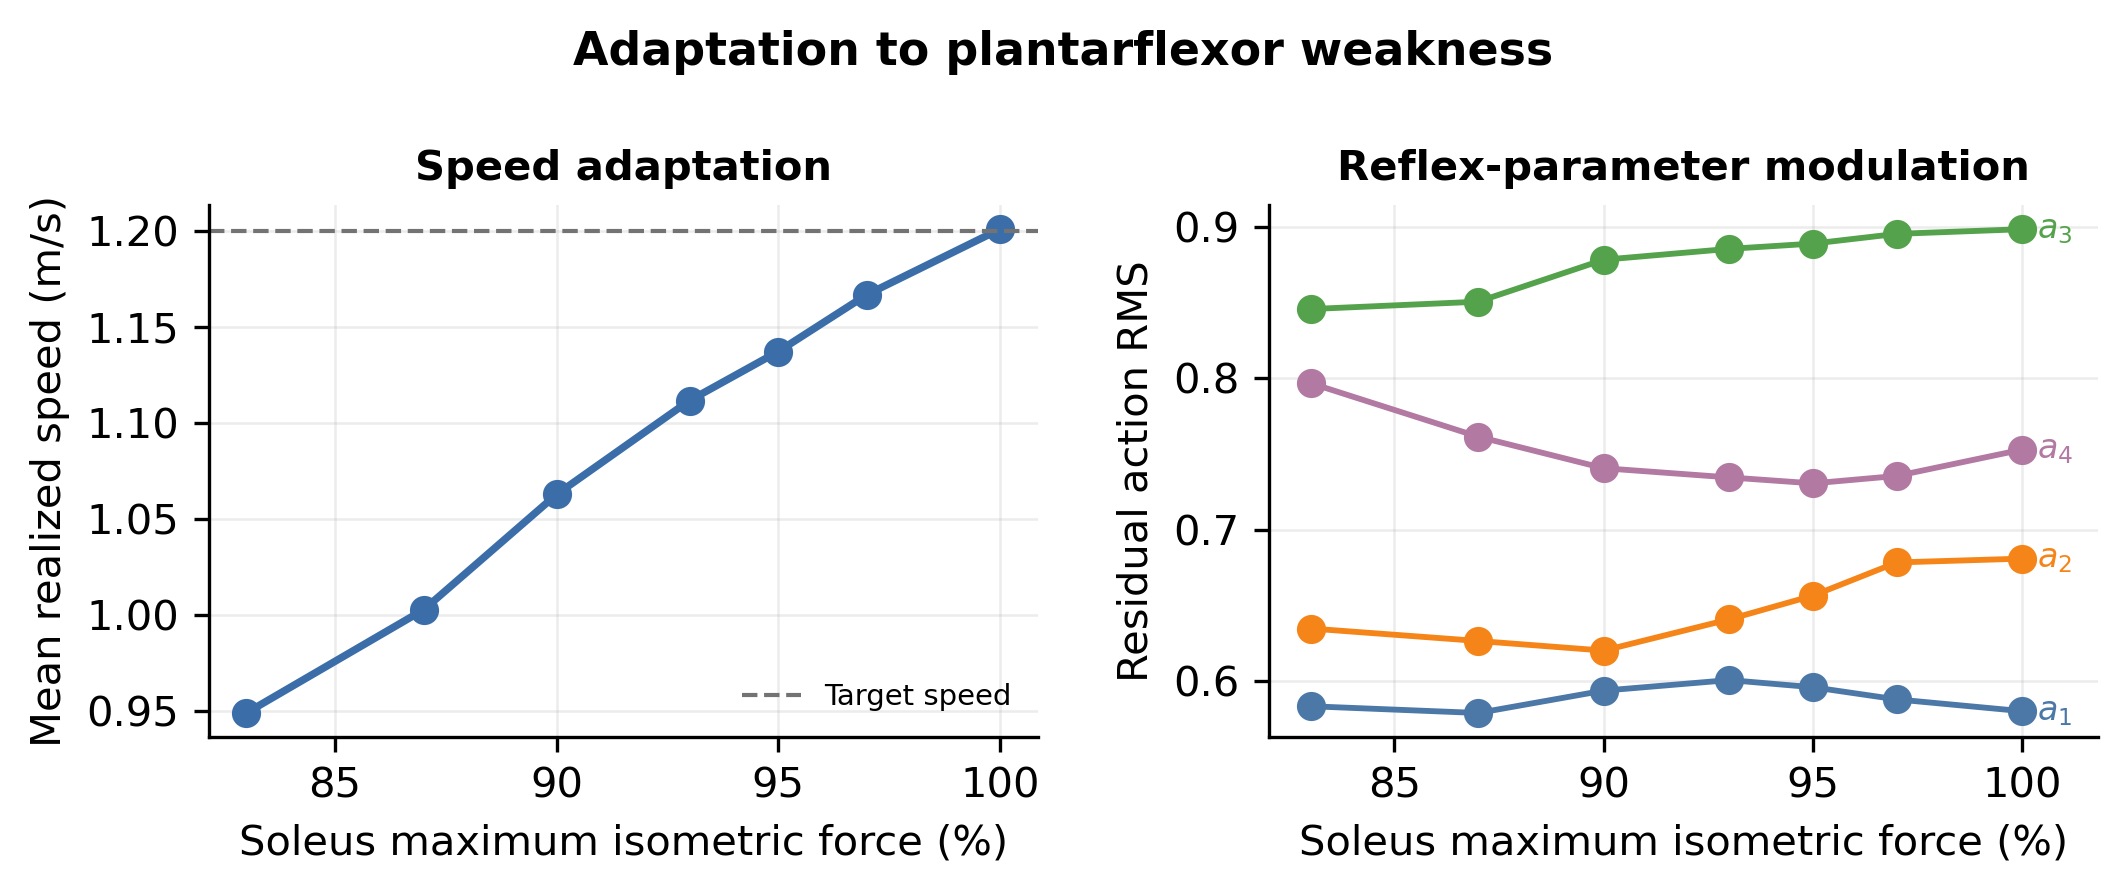
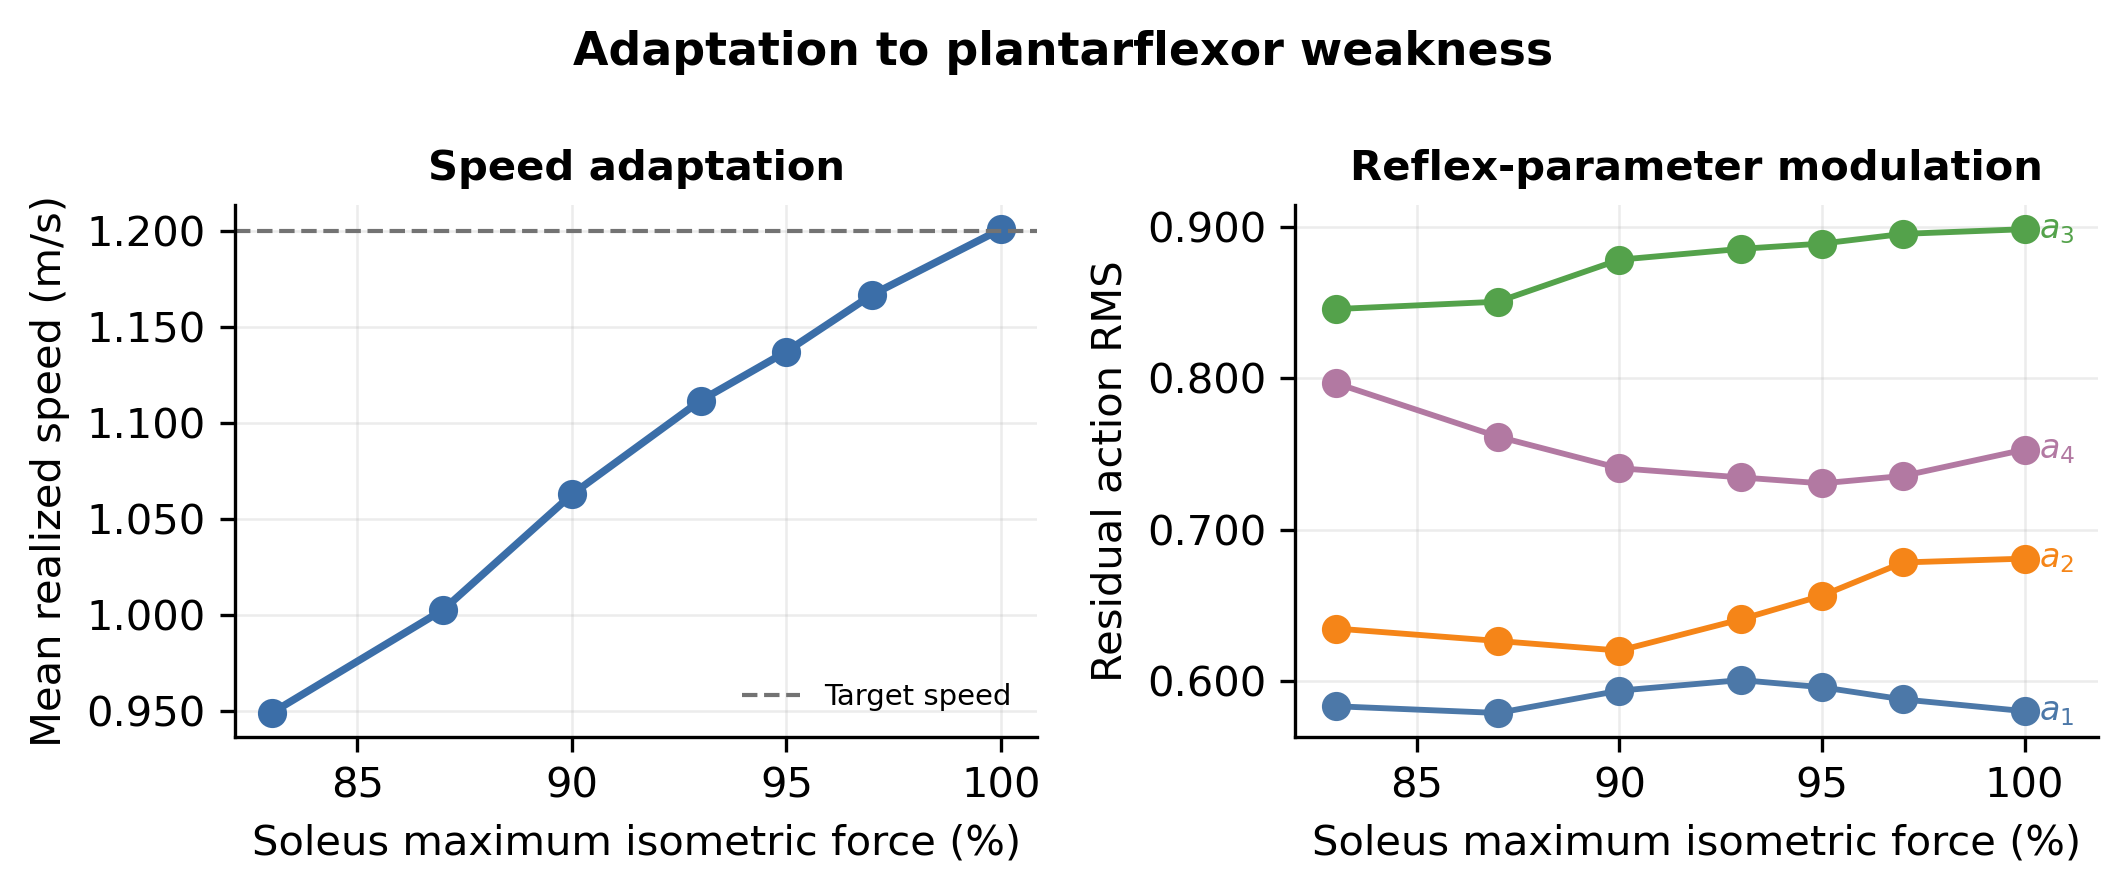
Refine weakness adaptation results

diff --git a/main.tex b/main.tex
@@ -773,13 +773,14 @@ cycle detected from the corresponding STO trajectory and synchronized video.}
 
 \subsection{Plantarflexor Weakness Adaptation}
 \label{sec:weakness_results}
-The weakness experiment directly tests the question raised by the optimized
-reflex baseline: if a CMA-ES-optimized reflex controller already walks well in
-the nominal model, what does the learned residual policy add? To probe this, the
-soleus maximum isometric force was reduced while the trained 1.2~m/s policy was
-kept unchanged. The CMA-ES-optimized reflex controller failed in the weakened
-models tested here, whereas Residual-Reflex RL produced full 1000-step rollouts
-for soleus strength levels from 83\% to 100\%.
+The weakness experiment examines whether the learned reflex-parameter
+modulation remains usable when the musculoskeletal model changes after
+training. The soleus maximum isometric force was reduced while the trained
+1.2~m/s Residual-Reflex RL policy was kept unchanged, so the controller was
+evaluated on weakened models without additional training or parameter
+optimization. Under the same model changes, the CMA-ES-optimized reflex
+controller failed in the tested weakened models, whereas Residual-Reflex RL
+produced full 1000-step rollouts for soleus strength levels from 83\% to 100\%.
 
 Table~\ref{tab:weakness_adaptation} and Fig.~\ref{fig:weakness_adaptation}
 show that the residual policy did not simply force the weakened model to keep
@@ -796,30 +797,31 @@ largest RMS magnitude across the weakness range, reflecting substantial
 modulation of the ankle support/propulsion pathway. The remaining channels also
 change with weakness, indicating that the adaptation is not a single-parameter
 effect: hip, knee, and ankle feedback pathways are jointly adjusted to preserve
-walking. Thus, the four-dimensional residual action space acts as a compact
-adaptive interface on top of the reflex controller, rather than as a fixed
-post-training parameter set.
+walking. These results indicate that the four-dimensional residual action space
+acts as a compact adaptive interface on top of the reflex controller: the same
+trained policy can be transferred across weakened body models without
+retraining, while still modulating the underlying reflex pathways online.
 
 \begin{table}[!t]
 \centering
 \caption{Residual-Reflex RL under soleus weakness. The target speed was
 1.2~m/s. All listed residual rollouts reached 1000 steps.}
 \label{tab:weakness_adaptation}
-\small
-\setlength{\tabcolsep}{2.5pt}
+\scriptsize
+\setlength{\tabcolsep}{2.0pt}
 \renewcommand{\arraystretch}{1.1}
 \begin{tabular}{l r r r r r r}
 \toprule
 \textbf{Soleus} & \textbf{Speed} & \textbf{Err.} &
 \textbf{RMS $a_1$} & \textbf{RMS $a_2$} & \textbf{RMS $a_3$} & \textbf{RMS $a_4$} \\
 \midrule
-83\%  & 0.95 & 0.25 & 0.58 & 0.63 & 0.85 & 0.80 \\
-87\%  & 1.00 & 0.20 & 0.58 & 0.63 & 0.85 & 0.76 \\
-90\%  & 1.06 & 0.14 & 0.59 & 0.62 & 0.88 & 0.74 \\
-93\%  & 1.11 & 0.09 & 0.60 & 0.64 & 0.89 & 0.73 \\
-95\%  & 1.14 & 0.06 & 0.60 & 0.66 & 0.89 & 0.73 \\
-97\%  & 1.17 & 0.03 & 0.59 & 0.68 & 0.90 & 0.74 \\
-100\% & 1.20 & 0.00 & 0.58 & 0.68 & 0.90 & 0.75 \\
+83\%  & 0.949 & 0.251 & 0.584 & 0.635 & 0.846 & 0.797 \\
+87\%  & 1.002 & 0.198 & 0.579 & 0.627 & 0.851 & 0.761 \\
+90\%  & 1.063 & 0.137 & 0.594 & 0.620 & 0.878 & 0.741 \\
+93\%  & 1.112 & 0.088 & 0.601 & 0.641 & 0.885 & 0.735 \\
+95\%  & 1.137 & 0.063 & 0.596 & 0.657 & 0.889 & 0.731 \\
+97\%  & 1.167 & 0.033 & 0.588 & 0.678 & 0.895 & 0.736 \\
+100\% & 1.201 & 0.001 & 0.580 & 0.681 & 0.898 & 0.753 \\
 \bottomrule
 \end{tabular}
 \end{table}
